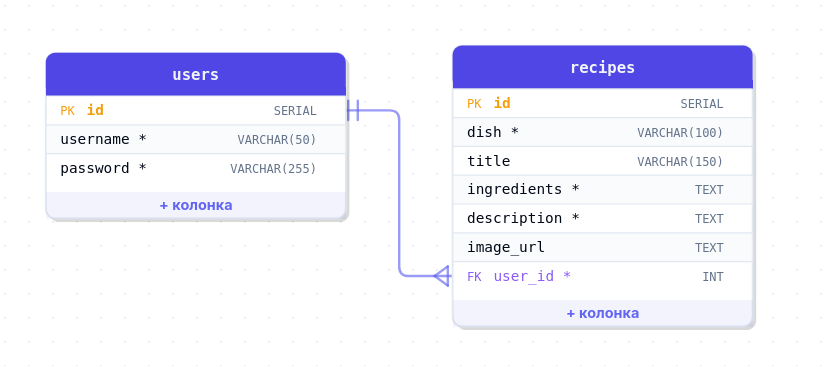
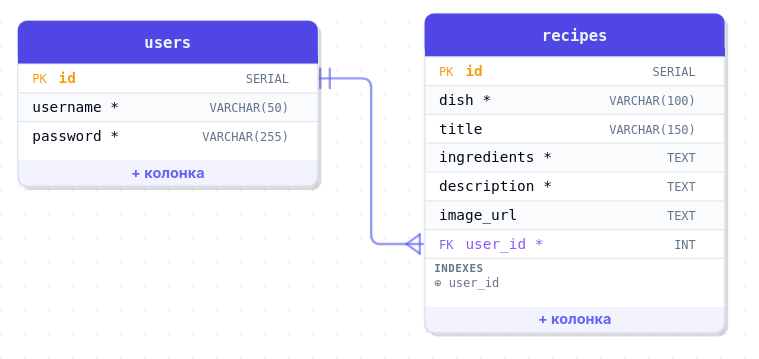
add sql query result screenshots

diff --git a/README.md b/README.md
@@ -52,3 +52,28 @@ npm run server
 4. **DELETE** — удаление записи по `id`.
 5. **SELECT с JOIN** — связывание рецепта с автором (`users`) для вывода имени
    создателя.
+
+<details>
+<summary><b>Скрины выполнения sql запросов</b></summary>
+
+#### 1. SELECT с условием WHERE
+
+![SELECT WHERE](docs/db-results/1-select-where.png)
+
+#### 2. INSERT нового рецепта
+
+![INSERT](docs/db-results/2-insert.png)
+
+#### 3. UPDATE заголовка
+
+![UPDATE](docs/db-results/3-update.png)
+
+#### 4. DELETE записи
+
+![DELETE](docs/db-results/4-delete.png)
+
+#### 5. SELECT с JOIN
+
+![SELECT JOIN](docs/db-results/5-select-join.png)
+
+</details>
